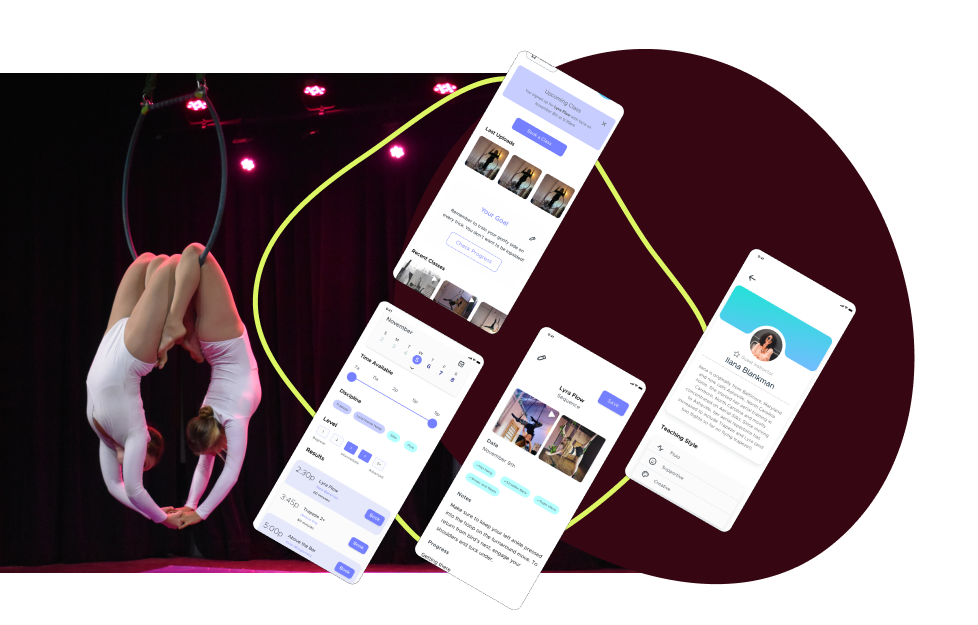
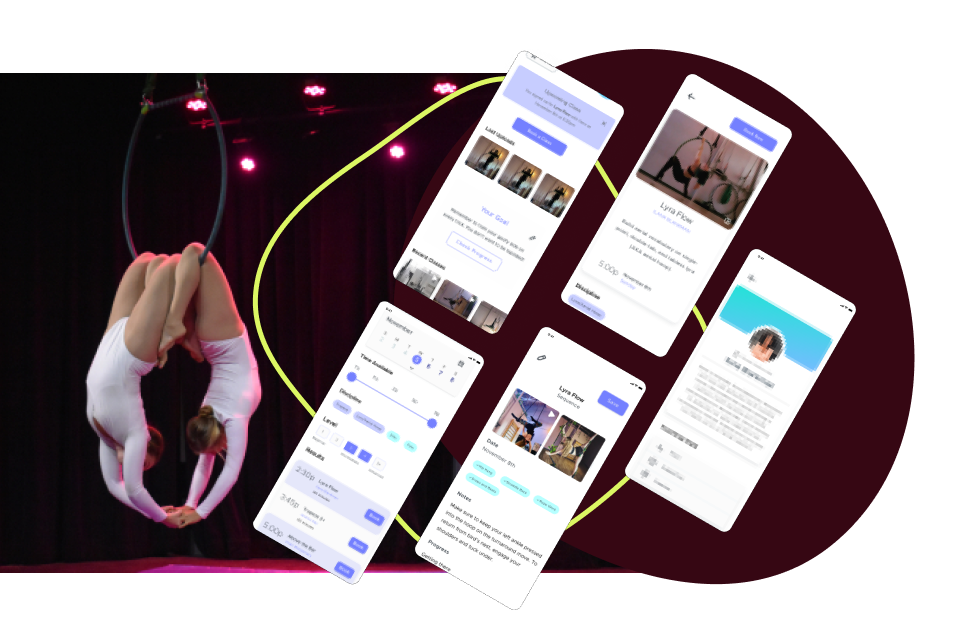
final fixes

diff --git a/src/Pages/LandingPage.js b/src/Pages/LandingPage.js
@@ -417,17 +417,18 @@ ul {
 `
 const Picture1 = Styled.img
 `
-max-width: 35%
-height: auto;
+max-width: 24.5rem;
+height: 26rem;
 @media only screen and (max-width: 375px){
-    width: 90%;
+    max-width: 95%;
+    height: 50%;
 }
 `
 const AboutText2 = Styled.div
 `
 max-width: 67rem;
 margin-left: 4.5%;
-margin-right: 2rem;
+margin-right: 3%;
 `
 
 
